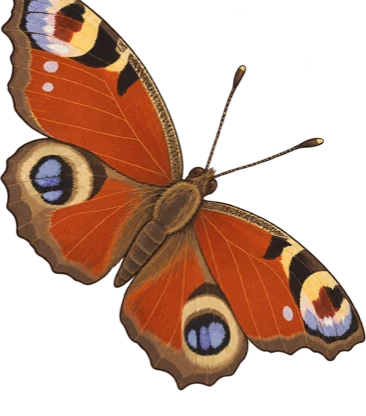
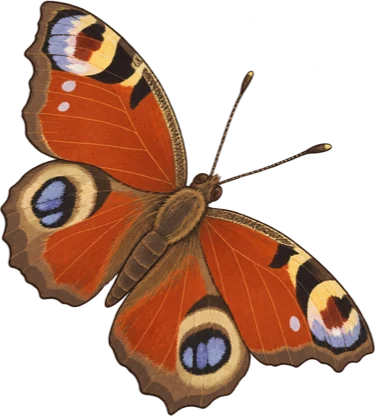
Peacock butterfly re-cut (the warp read the rows upside down and clipped a wing); changelog ru/uk wording — the user's three edits

diff --git a/js/i18n.js b/js/i18n.js
@@ -1245,11 +1245,11 @@ const translations = {
     'changelog.v16.i1': '<strong>Два режима чтения</strong>: Comfort адаптирует страницу автоматически — поля, интервалы, колонки — и оставляет внизу тонкую полосу, которая не мешает тексту; Professional сохраняет все панели, доки и настройки и позволяет построить свой IDE для чтения. Переключаться можно в любой момент.',
     'changelog.v16.i2': '<strong>Дневник чтения</strong>: каждый сеанс записывается; в карточке книги видно, когда и сколько вы читали, а журнал собирает дни и книги и выгружает их в файл.',
     'changelog.v16.i3': '<strong>Все заметки и закладки в одном месте</strong> — из всех книг, даже удалённых; их можно искать, перекрашивать и выгружать в HTML, Markdown или CSV.',
-    'changelog.v16.i4': '<strong>Статистика подробнее</strong>: графики по книгам, авторам и жанрам за выбранный период, отчёт в Markdown или CSV.',
-    'changelog.v16.i5': '<strong>Браузер авторов и браузер серий</strong>: у каждого автора страница с книгами по сериям; книги перетаскиваются между сериями, серия переименовывается сразу для всех книг, варианты написания имени объединяются; любая серия — отдельной вкладкой.',
+    'changelog.v16.i4': '<strong>Статистика стала подробнее</strong>: графики по книгам, авторам и жанрам за выбранный период, отчёт в Markdown или CSV.',
+    'changelog.v16.i5': '<strong>Браузер авторов и браузер серий</strong>: у каждого автора появилась страница с книгами по сериям; книги перетаскиваются между сериями, серия переименовывается сразу для всех книг, варианты написания имени объединяются; любая серия — отдельной вкладкой.',
     'changelog.v16.i6': '<strong>Полноценное управление вкладками</strong>: перестановка, закрытие, скрытие всего ряда; двойной Esc открывает селектор вкладок, у каждой своя постоянная клавиша, а не поместившиеся уходят в меню.',
     'changelog.v16.i7': '<strong>До четырёх колонок</strong> на широком экране и <strong>новые эффекты перелистывания</strong> — Flip, Cards и Sink.',
-    'changelog.v16.i8': '<strong>Бумага</strong>: линейка, клетка, миллиметровка, песок или своя картинка; три новых покрытия стола и рамка вокруг текста. Настройки читалки на шести вкладках с переходом по двойному F9, тихий режим на H, селектор панелей по двойному Esc.',
+    'changelog.v16.i8': '<strong>Текстура бумаги</strong>: линейка, клетка, миллиметровка, песок или своя картинка; три новых покрытия стола и рамка вокруг текста. Настройки читалки на шести вкладках с переходом по двойному F9, тихий режим на H, селектор панелей по двойному Esc.',
     'changelog.v16.i9': '<strong>Перевод своего текста</strong> в ручном режиме; заметки к папкам; импорт из Calibre; ISBN из книги, с поиском по #; нижняя полоса полноэкранного режима собирается по слотам на айпаде и айфоне.',
     'changelog.v16.i10': '<strong>JustReader и PlainReader</strong>: статистика, дневник чтения и все заметки на главном экране — и всё, что вы написали, переживает закрытие книги или снятие с полки. В меню книги PlainReader появились «Читать», «Карточка книги» и «Главы и закладки».',
     'changelog.v16.thanks': 'Спасибо Элли — читательнице, чьи письма подарили этому релизу две идеи: браузер заметок и перелистывание Flip.',
@@ -2370,11 +2370,11 @@ const translations = {
     'changelog.v16.i1': '<strong>Два режими читання</strong>: Comfort адаптує сторінку автоматично — поля, інтервали, колонки — і лишає внизу тонку смугу, що не заважає тексту; Professional зберігає всі панелі, доки й налаштування і дає змогу побудувати власне IDE для читання. Перемикатися можна будь-коли.',
     'changelog.v16.i2': '<strong>Щоденник читання</strong>: кожен сеанс записується; у картці книжки видно, коли й скільки ви читали, а журнал збирає дні та книжки й вивантажує їх у файл.',
     'changelog.v16.i3': '<strong>Усі нотатки й закладки в одному місці</strong> — з усіх книжок, навіть видалених; їх можна шукати, перефарбовувати й вивантажувати в HTML, Markdown або CSV.',
-    'changelog.v16.i4': '<strong>Детальніша статистика</strong>: графіки за книжками, авторами й жанрами за обраний період, звіт у Markdown або CSV.',
-    'changelog.v16.i5': '<strong>Браузер авторів і браузер серій</strong>: у кожного автора сторінка з книжками за серіями; книжки перетягуються між серіями, серія перейменовується одразу для всіх книжок, варіанти написання імені об’єднуються; будь-яка серія — окремою вкладкою.',
+    'changelog.v16.i4': '<strong>Статистика стала детальнішою</strong>: графіки за книжками, авторами й жанрами за обраний період, звіт у Markdown або CSV.',
+    'changelog.v16.i5': '<strong>Браузер авторів і браузер серій</strong>: у кожного автора з’явилася сторінка з книжками за серіями; книжки перетягуються між серіями, серія перейменовується одразу для всіх книжок, варіанти написання імені об’єднуються; будь-яка серія — окремою вкладкою.',
     'changelog.v16.i6': '<strong>Повноцінне керування вкладками</strong>: перестановка, закриття, приховування всього ряду; подвійний Esc відкриває селектор вкладок, у кожної своя постійна клавіша, а ті, що не вмістилися, переходять у меню.',
     'changelog.v16.i7': '<strong>До чотирьох колонок</strong> на широкому екрані та <strong>нові ефекти перегортання</strong> — Flip, Cards і Sink.',
-    'changelog.v16.i8': '<strong>Папір</strong>: лінійка, клітинка, міліметрівка, пісок або власна картинка; три нові покриття стола й рамка навколо тексту. Налаштування читалки на шести вкладках із переходом по подвійному F9, тихий режим на H, селектор панелей по подвійному Esc.',
+    'changelog.v16.i8': '<strong>Текстура паперу</strong>: лінійка, клітинка, міліметрівка, пісок або власна картинка; три нові покриття стола й рамка навколо тексту. Налаштування читалки на шести вкладках із переходом по подвійному F9, тихий режим на H, селектор панелей по подвійному Esc.',
     'changelog.v16.i9': '<strong>Переклад власного тексту</strong> в ручному режимі; нотатки до тек; імпорт із Calibre; ISBN із книжки, з пошуком за #; нижня смуга повноекранного режиму збирається по слотах на айпаді й айфоні.',
     'changelog.v16.i10': '<strong>JustReader і PlainReader</strong>: статистика, щоденник читання й усі нотатки на головному екрані — і все, що ви написали, переживає закриття книжки чи зняття з полиці. У меню книжки PlainReader з’явилися «Читати», «Картка книжки» та «Розділи й закладки».',
     'changelog.v16.thanks': 'Дякуємо Еллі — читачці, чиї листи подарували цьому релізу дві ідеї: браузер нотаток і перегортання Flip.',
